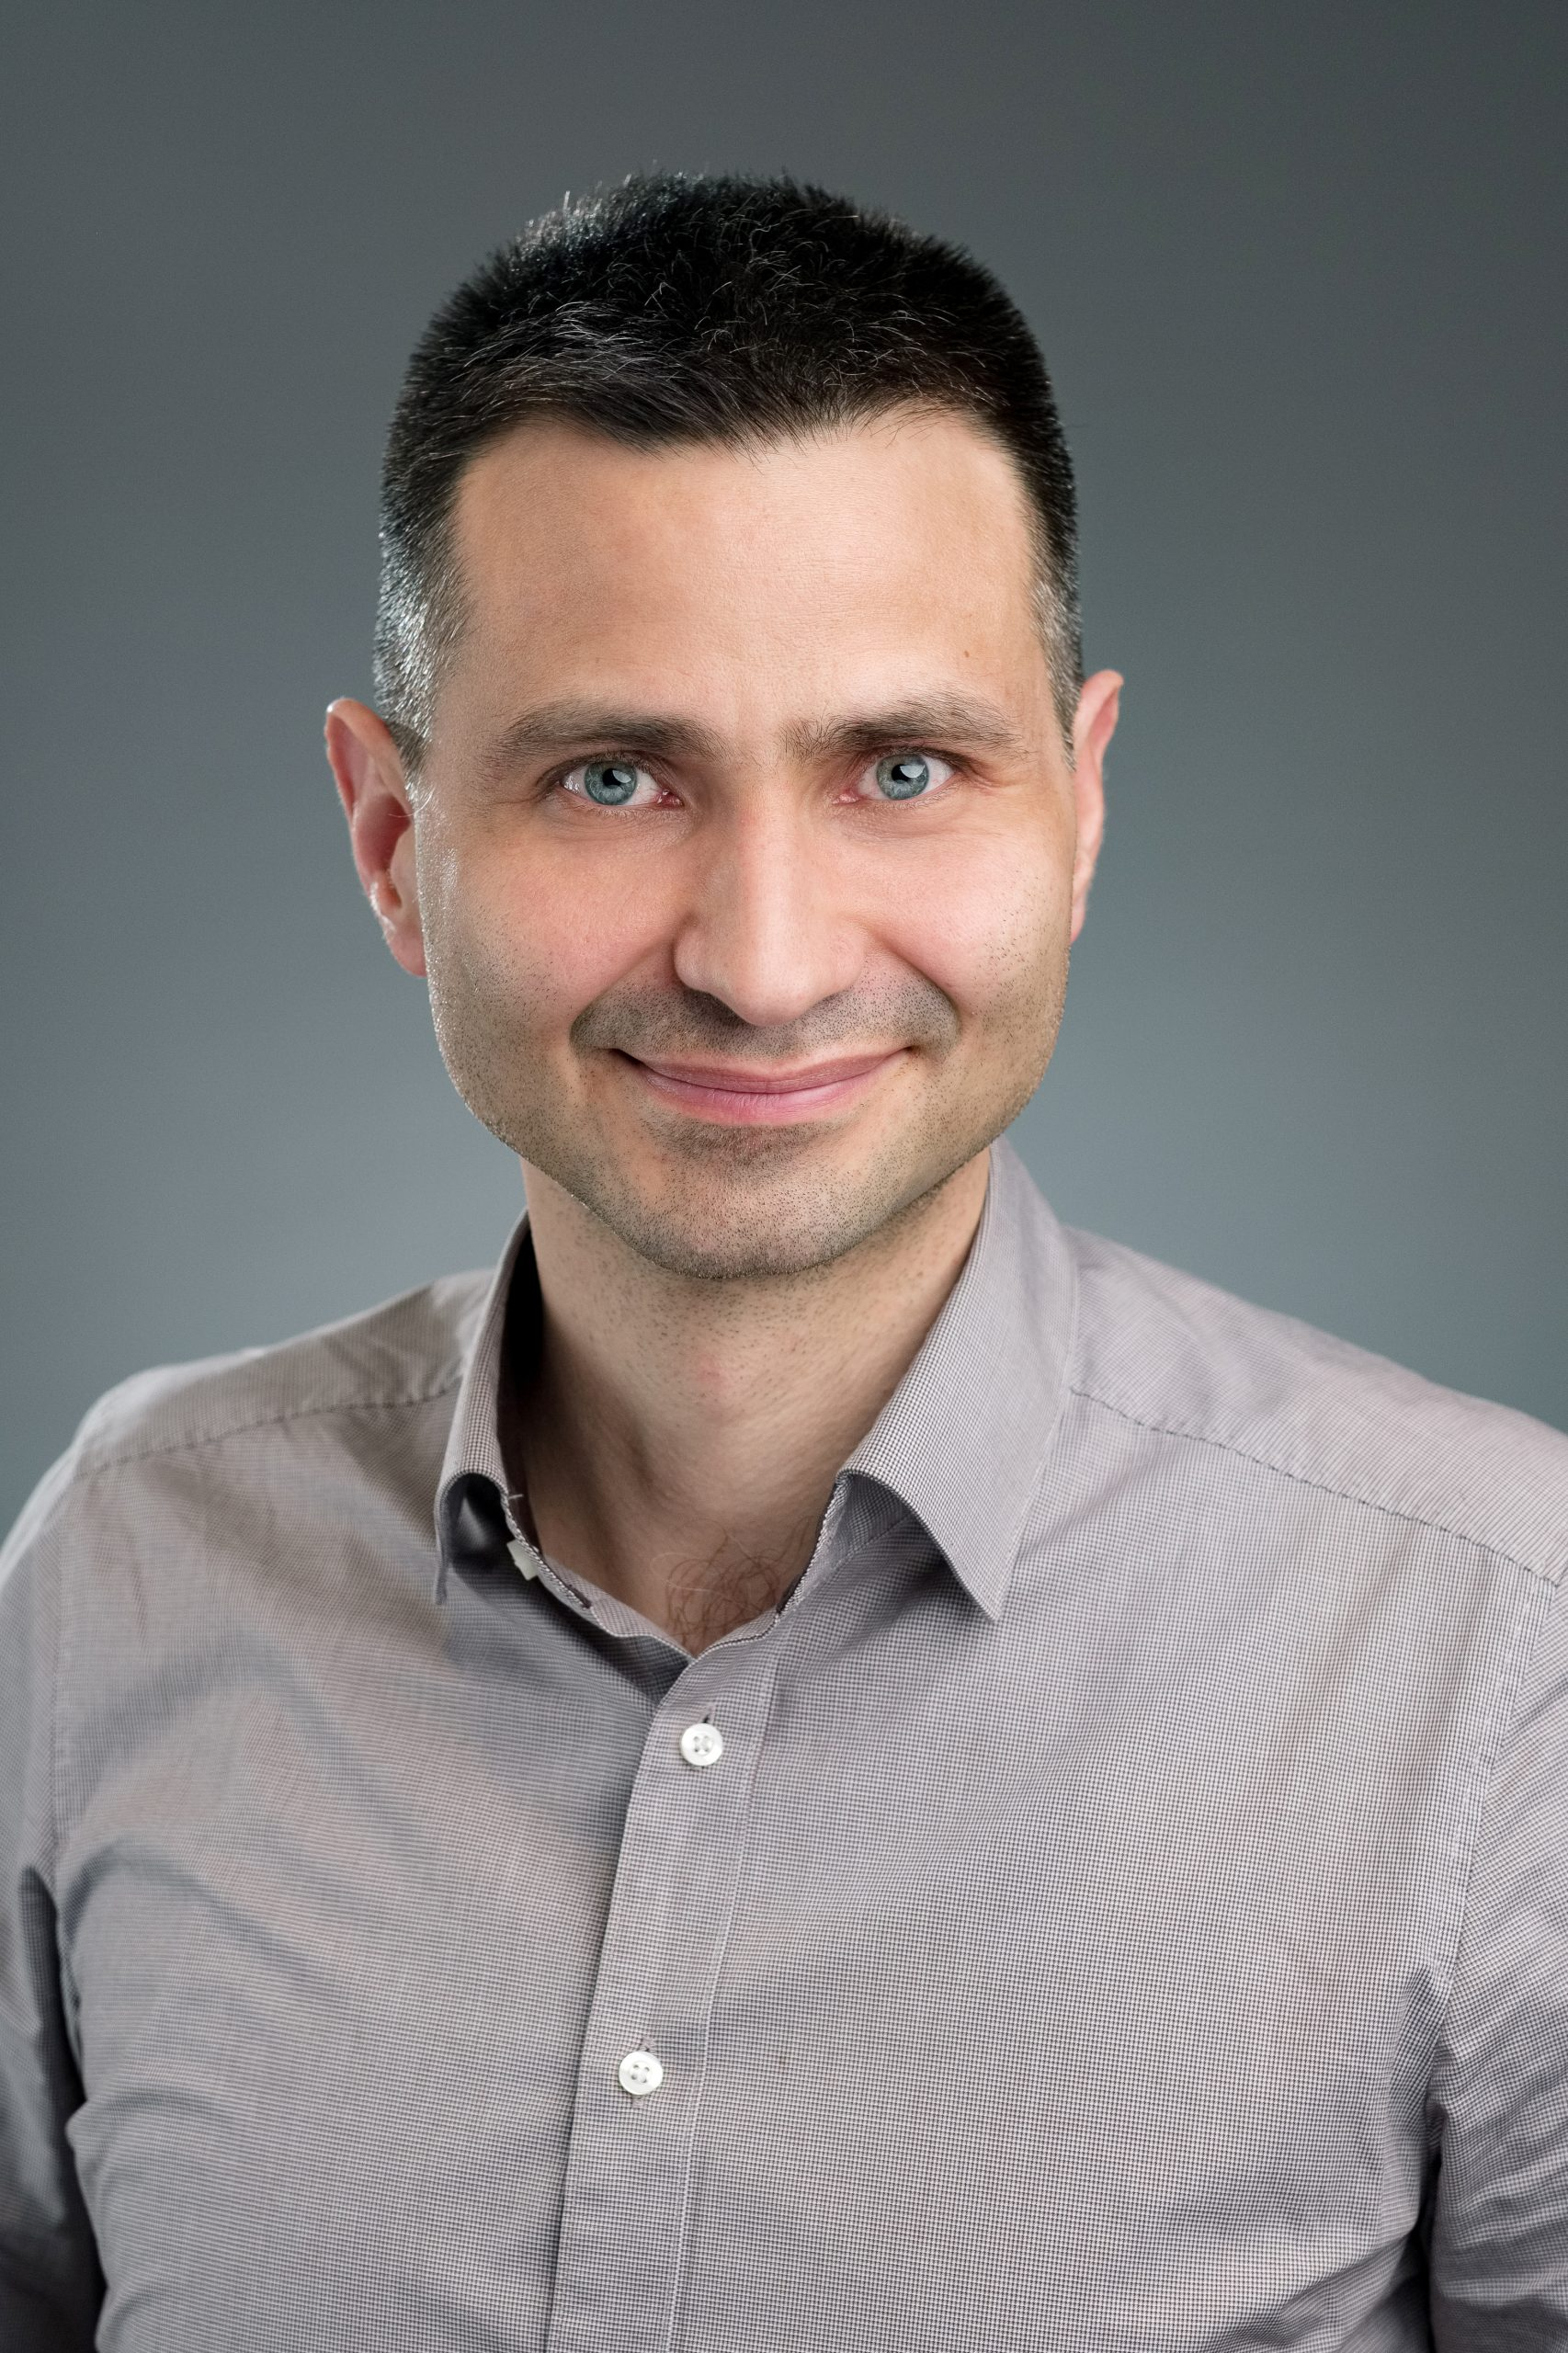
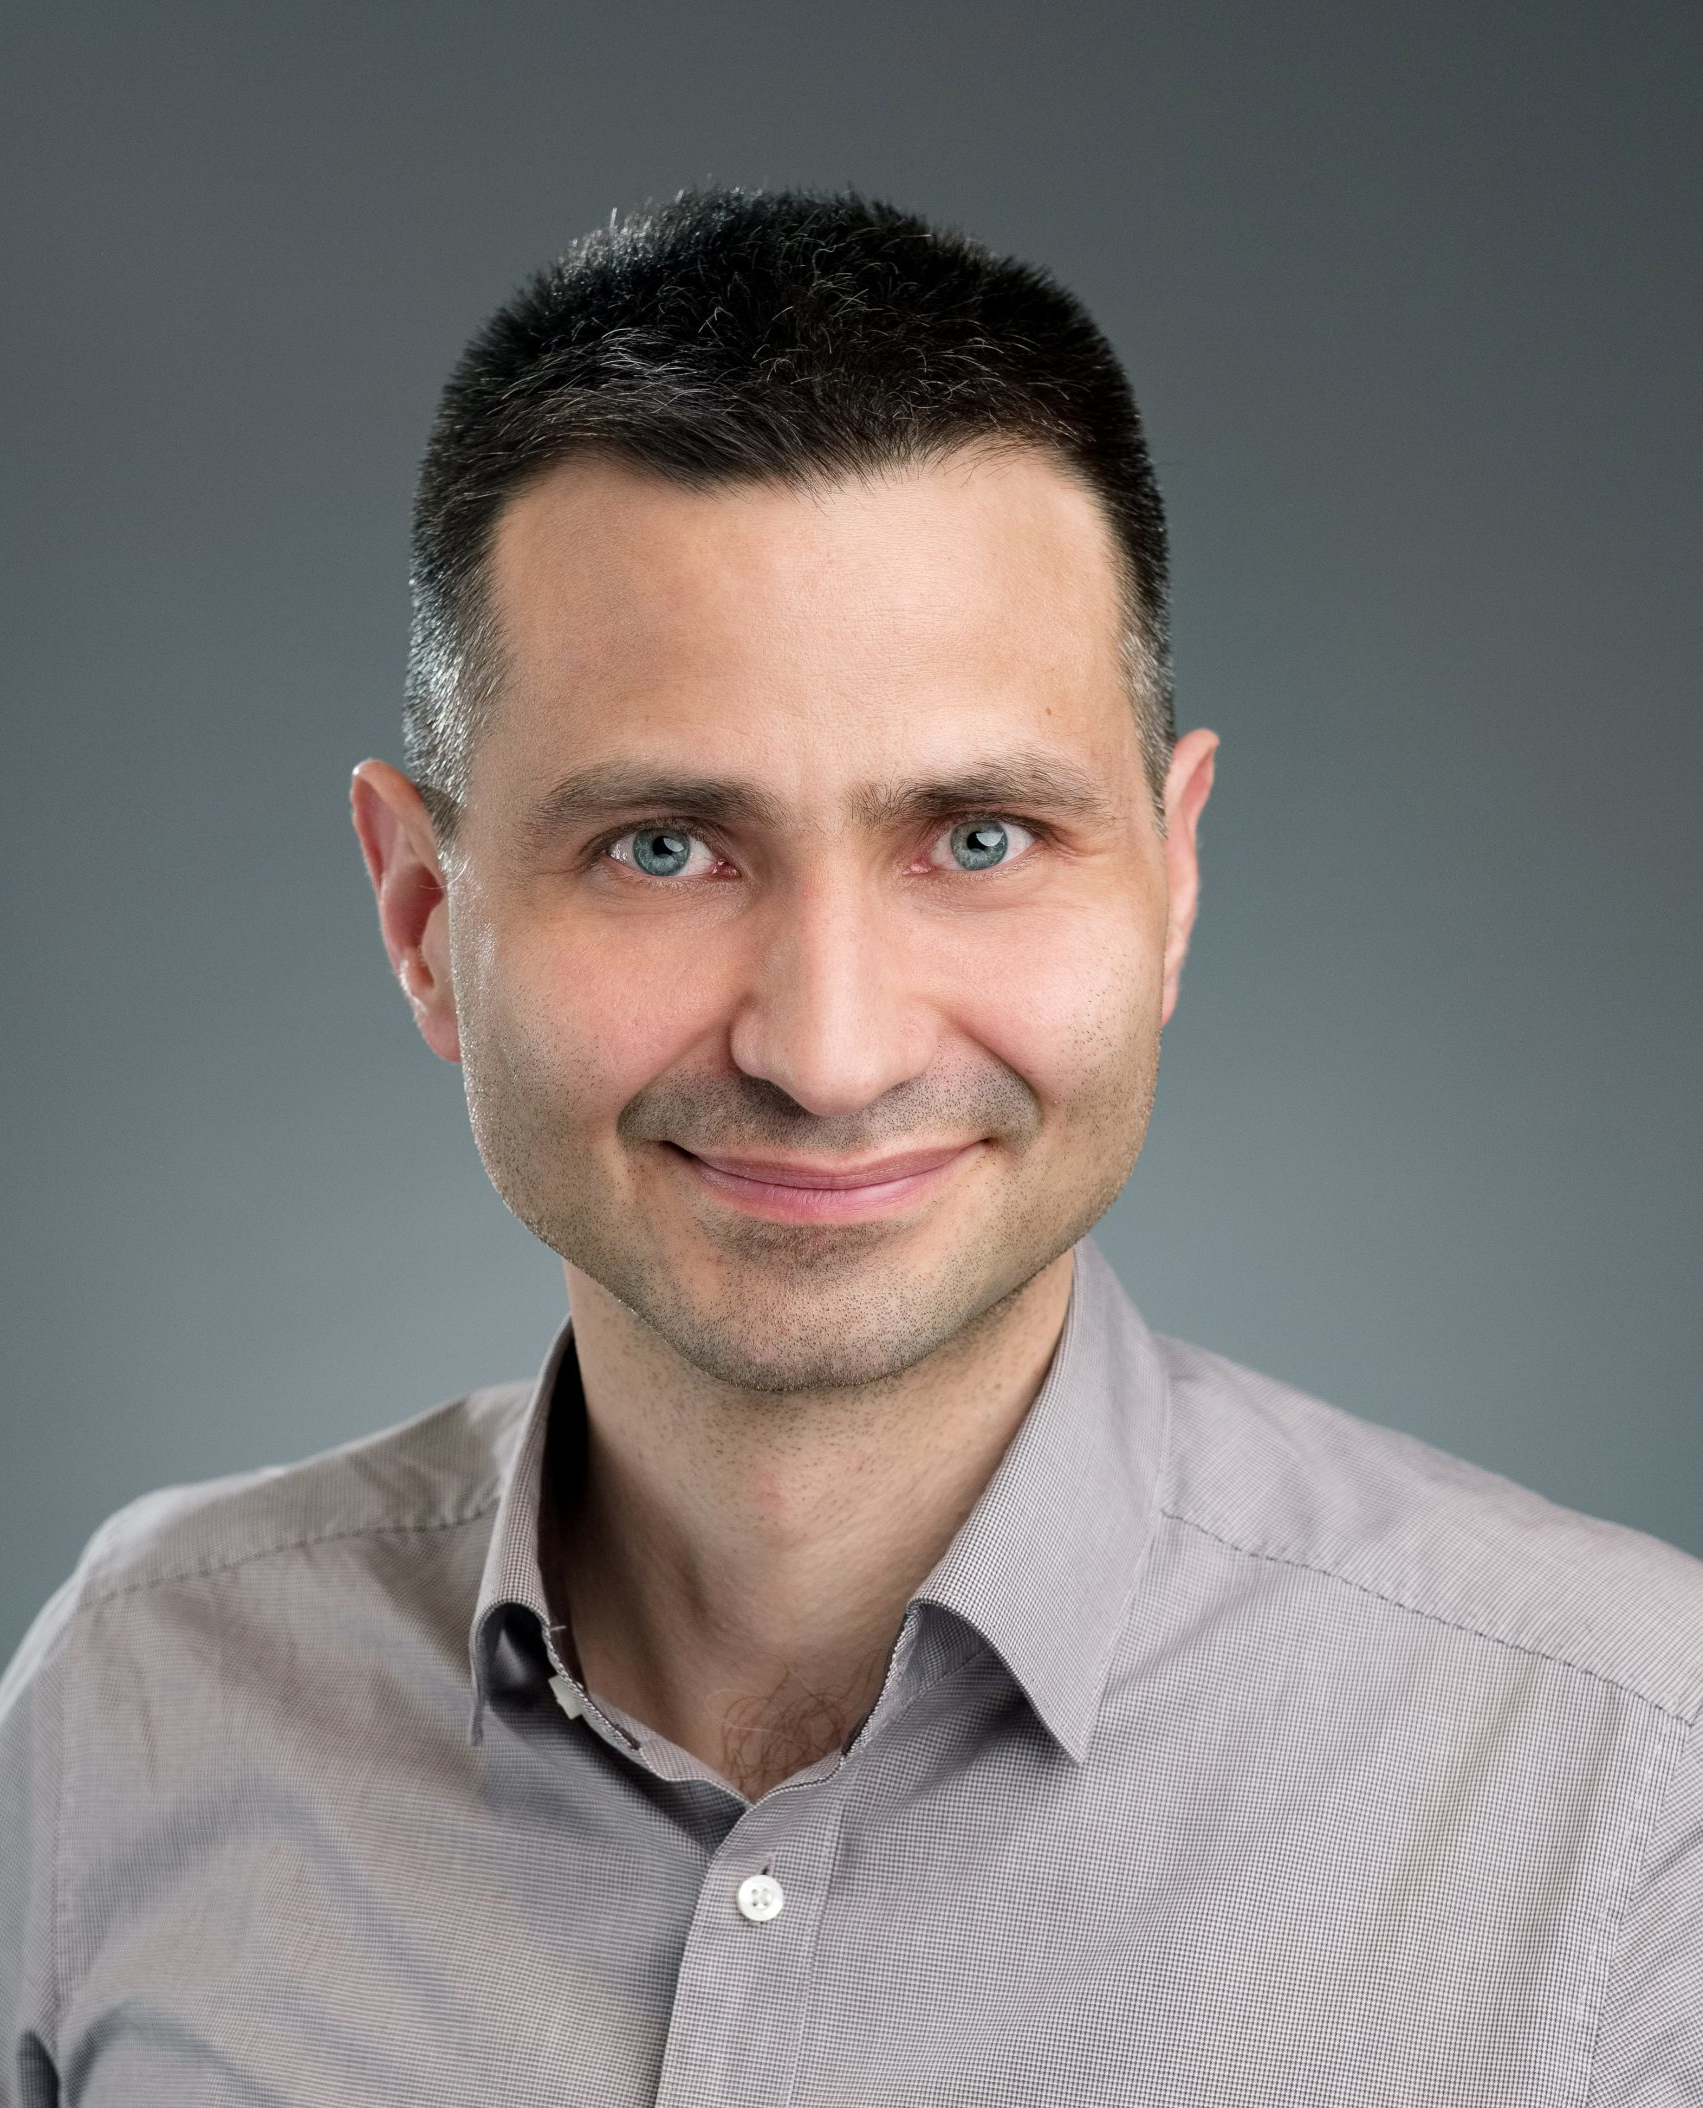
resize images

diff --git a/EUROMIP/2026/js/workshop_data.js b/EUROMIP/2026/js/workshop_data.js
@@ -51,7 +51,7 @@ export const workshop_data = [
     affiliation: 'LIX CNRS, Ecole Polytechnique',
     website: 'https://www.lix.polytechnique.fr/~liberti/',
     title: 'Random projections in mathematical programming: recent advances',
-    abstracttext: 'In this talk I will briefly survey previous work about the application of random projections to mathematical programming, and then talk about recent advances, specifically about quadratically constrained quadratic programs, as well as on a specific MINLP problem, i.e.~the minimum sum-of-squares clustering.\nCo-authors: Benedetto Manca and Pierre-Louis Poirion',
+    abstracttext: 'In this talk I will briefly survey previous work about the application of random projections to mathematical programming, and then talk about recent advances, specifically about quadratically constrained quadratic programs, as well as on a specific MINLP problem, i.e.~the minimum sum-of-squares clustering.\n\nCo-authors: Benedetto Manca and Pierre-Louis Poirion',
     picture: 'images/speakers/leo_liberti.png'
   },
   {
@@ -141,7 +141,7 @@ export const workshop_data = [
     affiliation: 'Imperial College London',
     website: 'https://profiles.imperial.ac.uk/r.misener',
     title: 'Optimizing over graphs: Challenges, Formulations, and Applications',
-    abstracttext: 'Applications involving optimization over graphs include molecular design, graph neural network verification, neural architecture search, etc. This talk discusses formulating graph spaces using mixed-integer optimization and incorporating application-specific constraints. We discuss computational challenges with these mixed-integer optimization formulations and zoom in on the practical implications for these applications. We mention what has been done (by both ourselves and others) and what other research still needs to be done.\nCo-authors: Shiqiang Zhang, Yilin Xie, Christopher Hojny, Juan Campos, Jixiang Qing, Christian Feldmann, David Walz, Frederik Sandfort, Miriam Mathea, Calvin Tsay',
+    abstracttext: 'Applications involving optimization over graphs include molecular design, graph neural network verification, neural architecture search, etc. This talk discusses formulating graph spaces using mixed-integer optimization and incorporating application-specific constraints. We discuss computational challenges with these mixed-integer optimization formulations and zoom in on the practical implications for these applications. We mention what has been done (by both ourselves and others) and what other research still needs to be done.\n\nCo-authors: Shiqiang Zhang, Yilin Xie, Christopher Hojny, Juan Campos, Jixiang Qing, Christian Feldmann, David Walz, Frederik Sandfort, Miriam Mathea, Calvin Tsay',
     picture: 'images/speakers/ruth_misener.jpg'
   },
   {